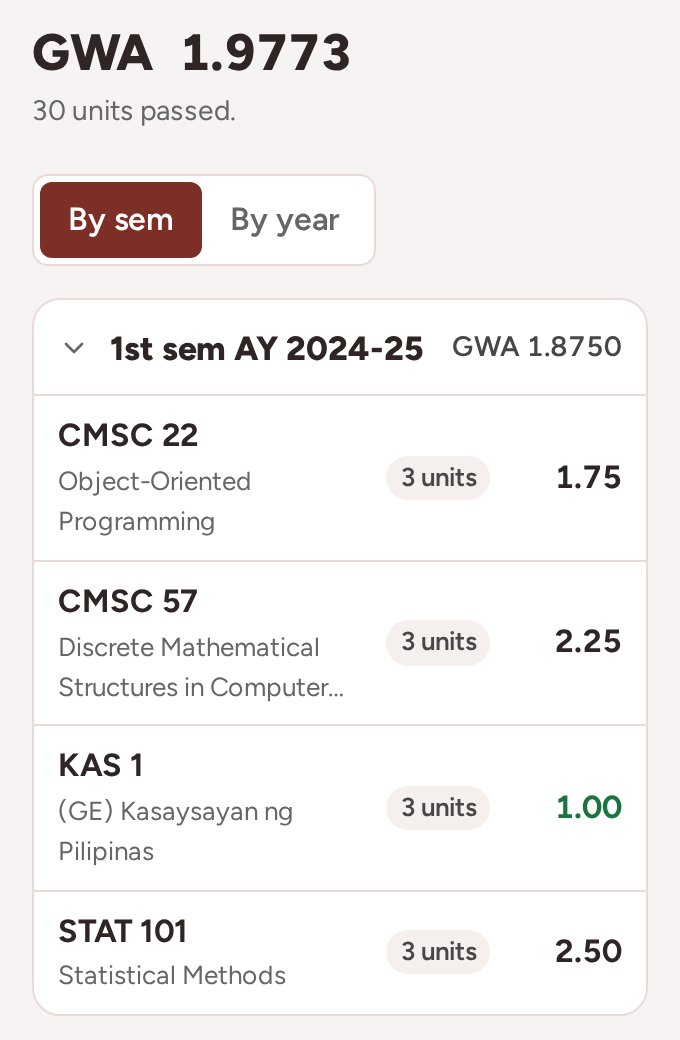
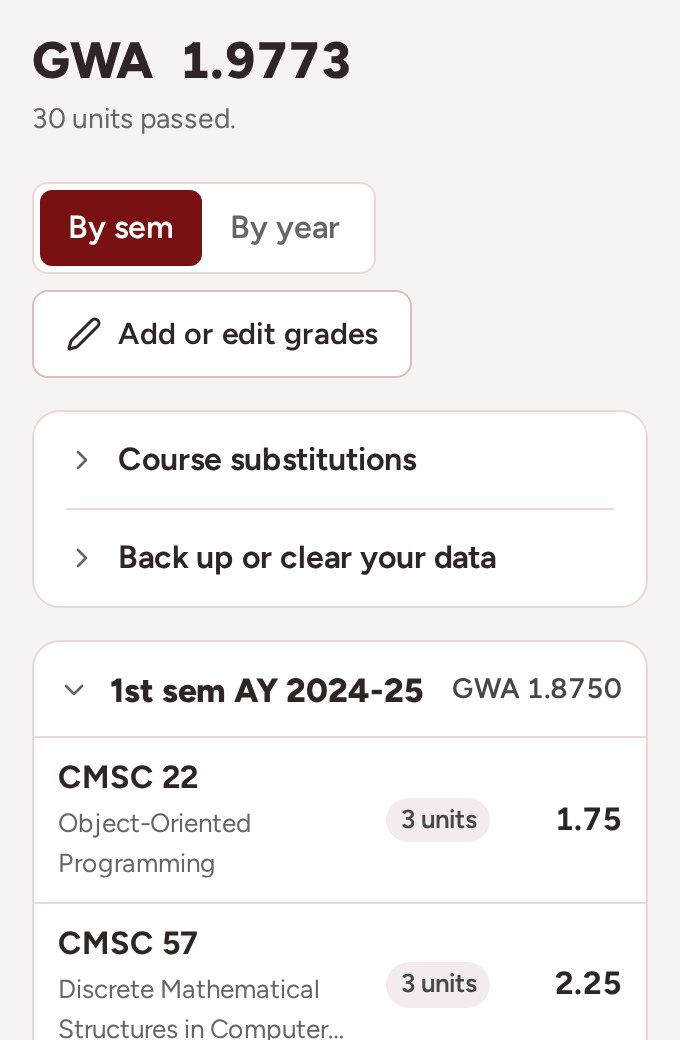
fix(welcome): screenshots sit on a maroon panel so they don't read as the page itself (#290)
- the three product screenshots get a maroon backdrop, a shadow and a cropped bottom
- the screenshots are retaken with UP maroon

diff --git a/src/lib/components/Welcome.svelte b/src/lib/components/Welcome.svelte
@@ -82,7 +82,7 @@
 				<h2>Your GWA, counted the UPLB way</h2>
 				<p>GradeSim weighs each grade by its units, leaves out HK and NSTP, and shows the GWA of every sem.</p>
 			</div>
-			<figure>
+			<figure class="stage">
 				<ThemedShot name="grades-phone" alt="The Grades tab. The GWA is 1.9773, and the 1st sem of AY 2024-25 lists four courses with their grades." width={680} height={1040} />
 			</figure>
 		</section>
@@ -91,7 +91,7 @@
 				<h2>The grades you need for honors</h2>
 				<p>Pick summa, magna, cum laude or your own target. GradeSim tells you the average you need on the units you have left.</p>
 			</div>
-			<figure>
+			<figure class="stage">
 				<ThemedShot name="target-phone" alt="The Target tab. Magna cum laude is picked, and the average needed on the 100 units left is 1.28." width={680} height={986} />
 			</figure>
 		</section>
@@ -100,7 +100,7 @@
 				<h2>A plan for the sems you have left</h2>
 				<p>The planner puts each course in the earliest sem its prerequisites and AMIS offerings allow. It shows what failing CHEM 18, a full section or a sem off does to your graduation. If you're shifting, pick your new program and credit the courses you already passed.</p>
 			</div>
-			<figure>
+			<figure class="stage">
 				<ThemedShot name="planner-phone" alt="The planner. Graduation is the 2nd sem of 2029, and the next sem lists six courses with the retake of MATH 27." width={680} height={1222} />
 			</figure>
 		</section>
@@ -258,6 +258,21 @@
 		margin: 0;
 		width: 100%;
 		max-width: 340px;
+	}
+
+	.feature .stage {
+		max-width: 380px;
+		max-height: 440px;
+		padding: 24px 24px 0;
+		overflow: hidden;
+		border-radius: var(--radius-lg);
+		background: hsl(359 76% 27%);
+	}
+
+	.stage :global(img) {
+		border: 0;
+		border-radius: var(--radius-md) var(--radius-md) 0 0;
+		box-shadow: 0 12px 32px hsl(0 0% 0% / 0.35);
 	}
 
 	.card-shot {
